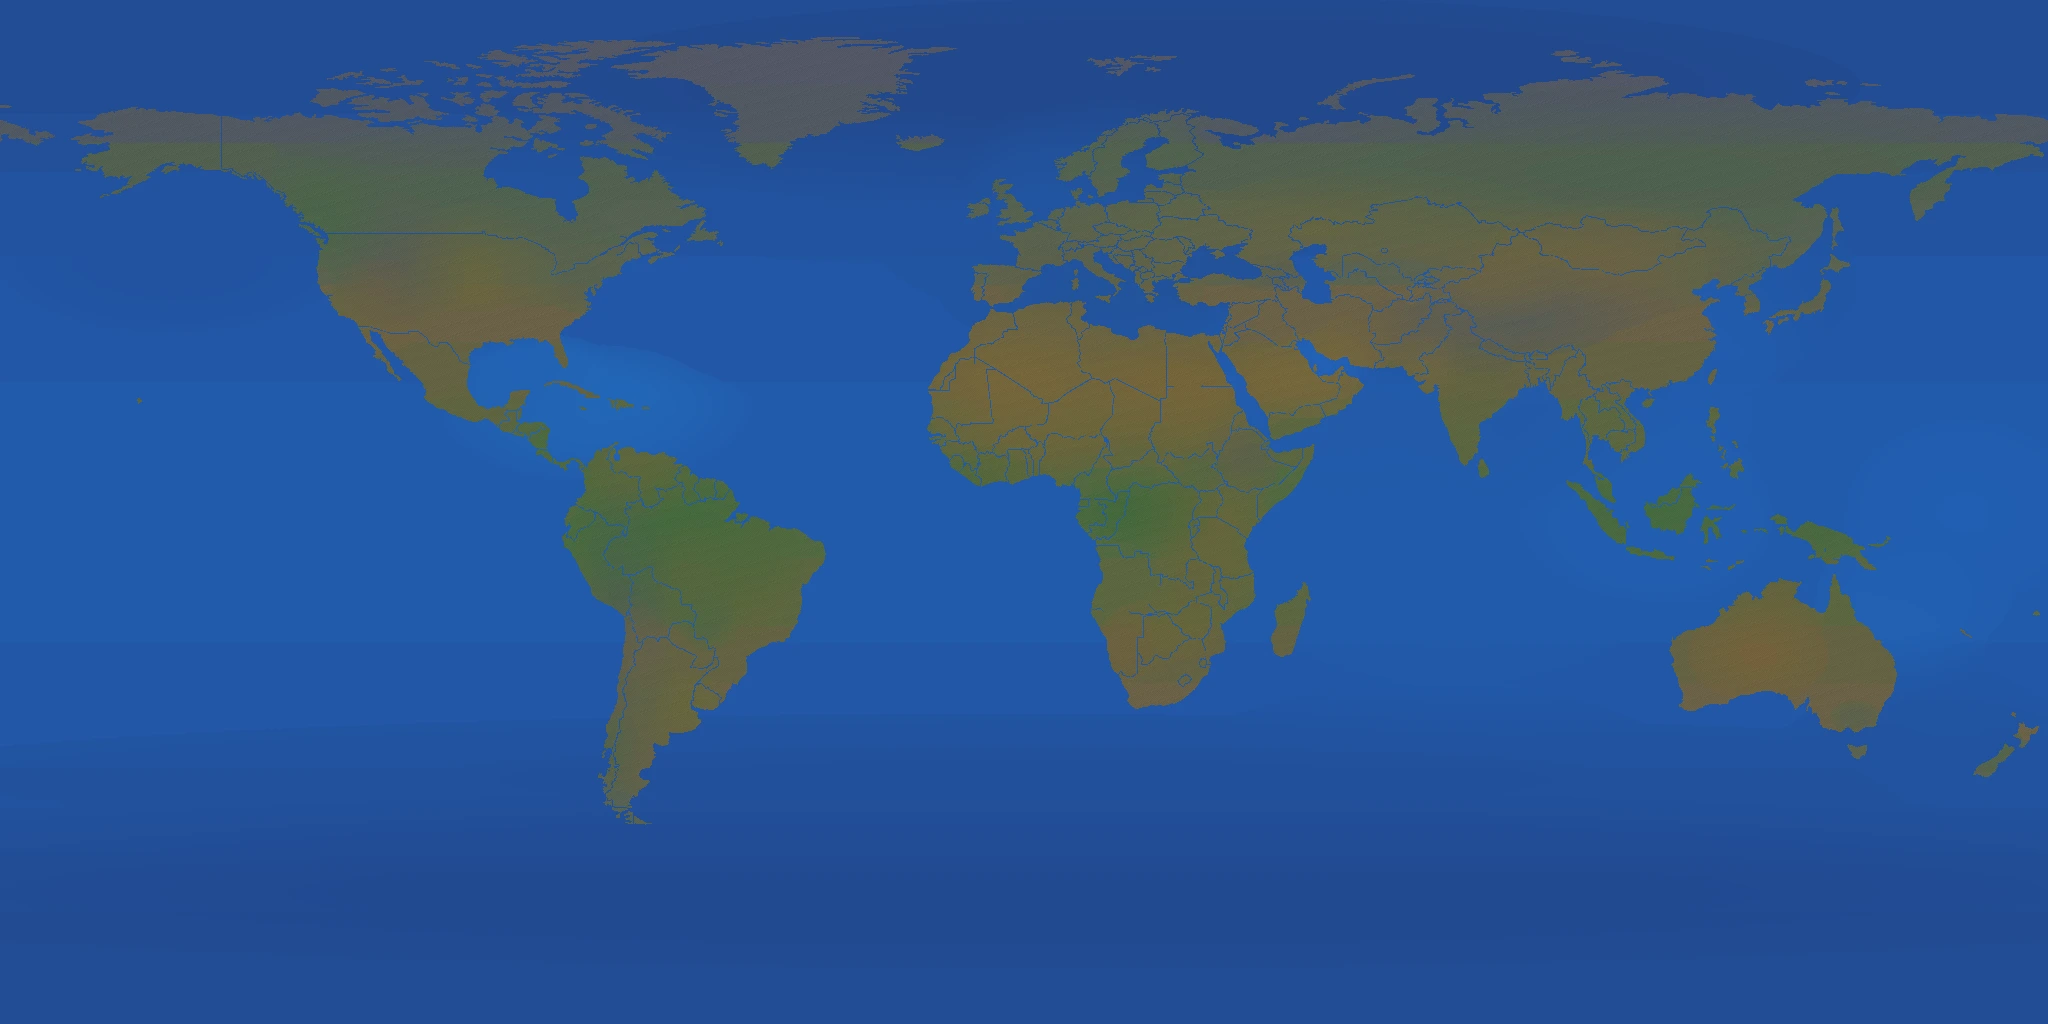
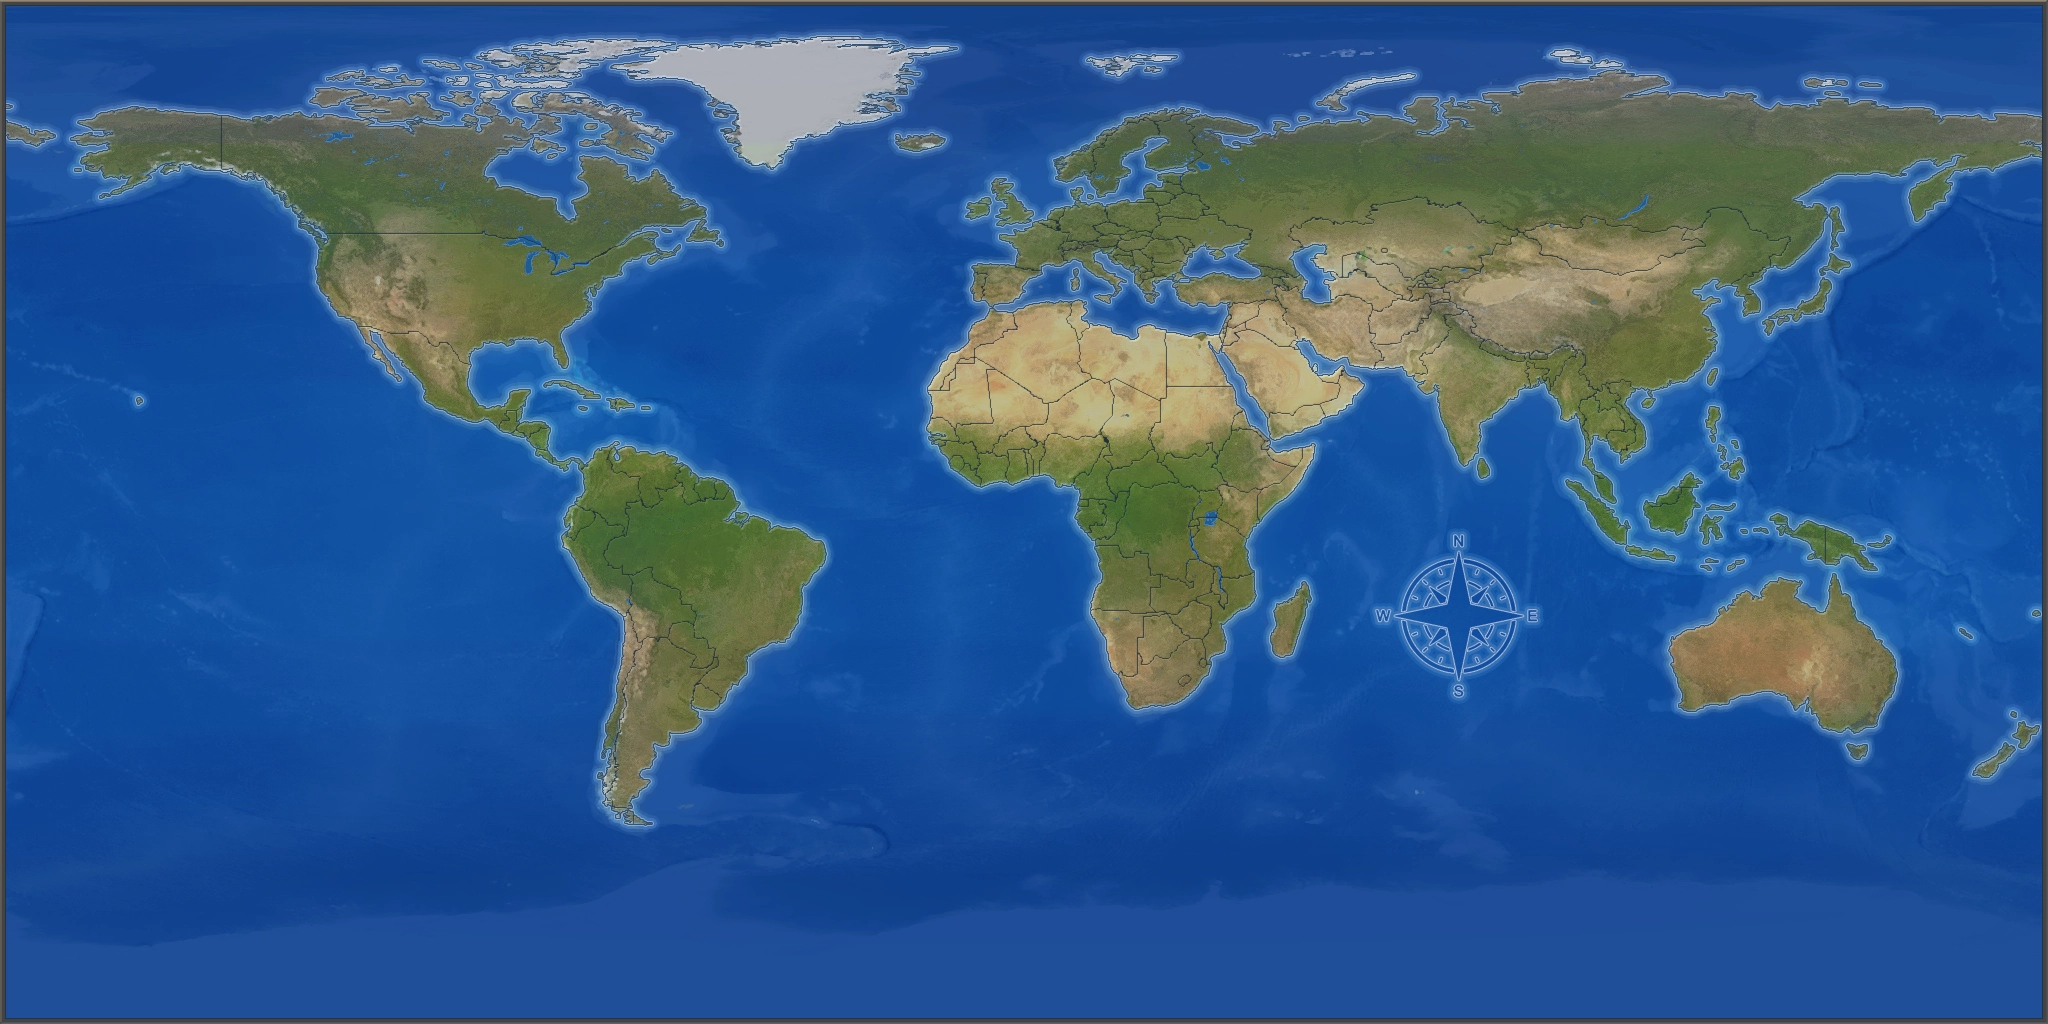
v129: ship operator GIF basemap + coast outline off + triad bump
Bundles the 5 gameplay/copy fixes (already committed) with the operator's baked
basemap art and the triad bump.
- public/map_base.gif (GIF89a 2048x1024, gif-preferred loader) + updated
  public/map_base.webp fallback — the new basemap with the coastline baked in.
- _COAST_OUTLINE = false: procedural c-border ocean-halo + c-waves shelf off
  (the art carries the coast now).
- Triad -> 2026-06-25-v129.
map_grid.json / map_meta.json unchanged (same geometry). Verified: new GIF loads
via the bake (200, totalLand 466600, new colours, no TopoJSON, border empty).

diff --git a/pixelworld_v5.html b/pixelworld_v5.html
@@ -3876,7 +3876,7 @@ function isPlayableCountry(fi) {
 }
 // Code version — bump this every time we change client logic. Used to verify
 // what's actually deployed vs. local. Check via: window.CODE_VERSION
-const CODE_VERSION = '2026-06-23-v128';
+const CODE_VERSION = '2026-06-25-v129';
 window.CODE_VERSION = CODE_VERSION;
 console.log('PixelAnnex client', CODE_VERSION);
 // Version badge in toolbar
@@ -3938,7 +3938,7 @@ let bordVisPixel=null;// v99g: VISUAL: ocean halo pixels actually drawn on the b
 // (edge + shelf) directly into the basemap art now, so both are disabled here
 // (flip to true to restore the procedural versions). bordPixel (gameplay
 // encirclement seeds) is unaffected — it was never drawn.
-const _COAST_OUTLINE = true; // v128: outline KEPT on for now — flip to false when the baked GIF basemap lands
+const _COAST_OUTLINE = false; // v129: baked GIF/WebP basemap now carries the coast — procedural outline + shelf off
 // Stroke tracking for auto-fill (geo countries touched this stroke)
 // strokeGeos is declared inside runAutoFill's outer scope above
 let totalClaimed=0,totalLandPx=0,showBorders=true,borderDark=true,brushSize=1,currentIdx=0;

diff --git a/server.js b/server.js
@@ -41,7 +41,7 @@ const xposter = require('./xposter'); // v93l: optional manual-approve X (Twitte
 
 // ── Config ────────────────────────────────────────────────────────
 const PORT               = parseInt(process.env.PORT || '3000', 10);
-const SERVER_VERSION       = '2026-06-23-v128';
+const SERVER_VERSION       = '2026-06-25-v129';
 console.log('PixelAnnex server', SERVER_VERSION);
 const MAP_W              = 2048;
 const MAP_H              = 1024;

diff --git a/sw.js b/sw.js
@@ -9,7 +9,7 @@
  * Version bumped per release so old caches get cleared automatically.
  */
 
-const CACHE_VERSION = 'pixelannex-v2026-06-23-v128';
+const CACHE_VERSION = 'pixelannex-v2026-06-25-v129';
 const STATIC_ASSETS = [
   '/',
   '/index.html',

diff --git a/CLAUDE.md b/CLAUDE.md
@@ -41,7 +41,27 @@ is: **always bump all three together**.
 
 `deploy.ps1` enforces this with a pre-flight check.
 
-**Current production triad: `2026-06-23-v128`.** (v128 = MOBILE-RESPONSIVE IN-GAME UI
+**Current production triad: `2026-06-25-v129`.** (v129 = 5 GAMEPLAY/COPY FIXES + the
+OPERATOR'S BAKED GIF BASEMAP. (1) Conquest danger-flash is size-aware: LARGE countries
+(>= CONTEST_LARGE_MIN 8000px) fall via the contested path to the COMBINED foreign hold, so
+they now warn on the AGGREGATE foreign share with an earlier window (the Russia "fell at
+~55% with no flash" case); small/medium keep the single-largest champion metric. (2) Encircle
+bonus countdown enlarged (10->16px bold). (3) COPY: ranks no longer give pixel regen (absolute
+px/s since v114) — rank panel now shows BUCKET CAPACITY (RANK_BUCKET_CAPS) not the phantom
+"+200% regen"; same dead "× regen" claim removed from the rally banner + tooltip (only the
+initial-pixel bonus is real). (4) ENCIRCLE FRIENDLY BORDERS: allied countries' pixels now seal
+an encirclement (client isWallFill/isWallFillPre via _encircleAllyFi + server detectEncirclement
+via _alliedIdxSet) — you can close a ring against a teammate's border (was own-pixels-only, part
+of why it felt "random"). (5) FALLEN ZONES: dead-native, no-holder land (`_isFallenZoneClient`)
+is now DARKENED (dark veil over its unclaimed pixels via per-polygon bbox ImageData on the claim
+layer) + a white 🏳 flag at the centroid (DOM node in #flag-overlay, map-projected like conquest
+flags); `_renderFallenZones`/`scheduleFallenZones` hooked into reversal/conquest/snapshot/claim-
+rebuild. BASEMAP: the operator's baked art shipped — `public/map_base.gif` (GIF89a 2048x1024,
+862KB, gif-preferred loader) + updated `public/map_base.webp` (560KB fallback); the coast is
+baked into the art so `_COAST_OUTLINE` is now FALSE (procedural c-border halo + c-waves shelf
+off). map_grid.json/map_meta.json unchanged (same geometry). Verified in preview: new GIF loads
+via the bake (status 200, totalLand 466600, new colours, no TopoJSON, border canvas empty);
+fallen-zone darken+flag works; encircle ally-walls + all copy compile clean.) (v128 = MOBILE-RESPONSIVE IN-GAME UI
 pass (built on the `mobile-responsive` branch, then merged) + the bot-ticker hardening
 (already live) + the file-bake GIF loader. Responsive model: 3 width tiers — compact
 (<=820px: phones + iPad portrait), desktop (>820px: iPad landscape + desktop, unchanged) —
